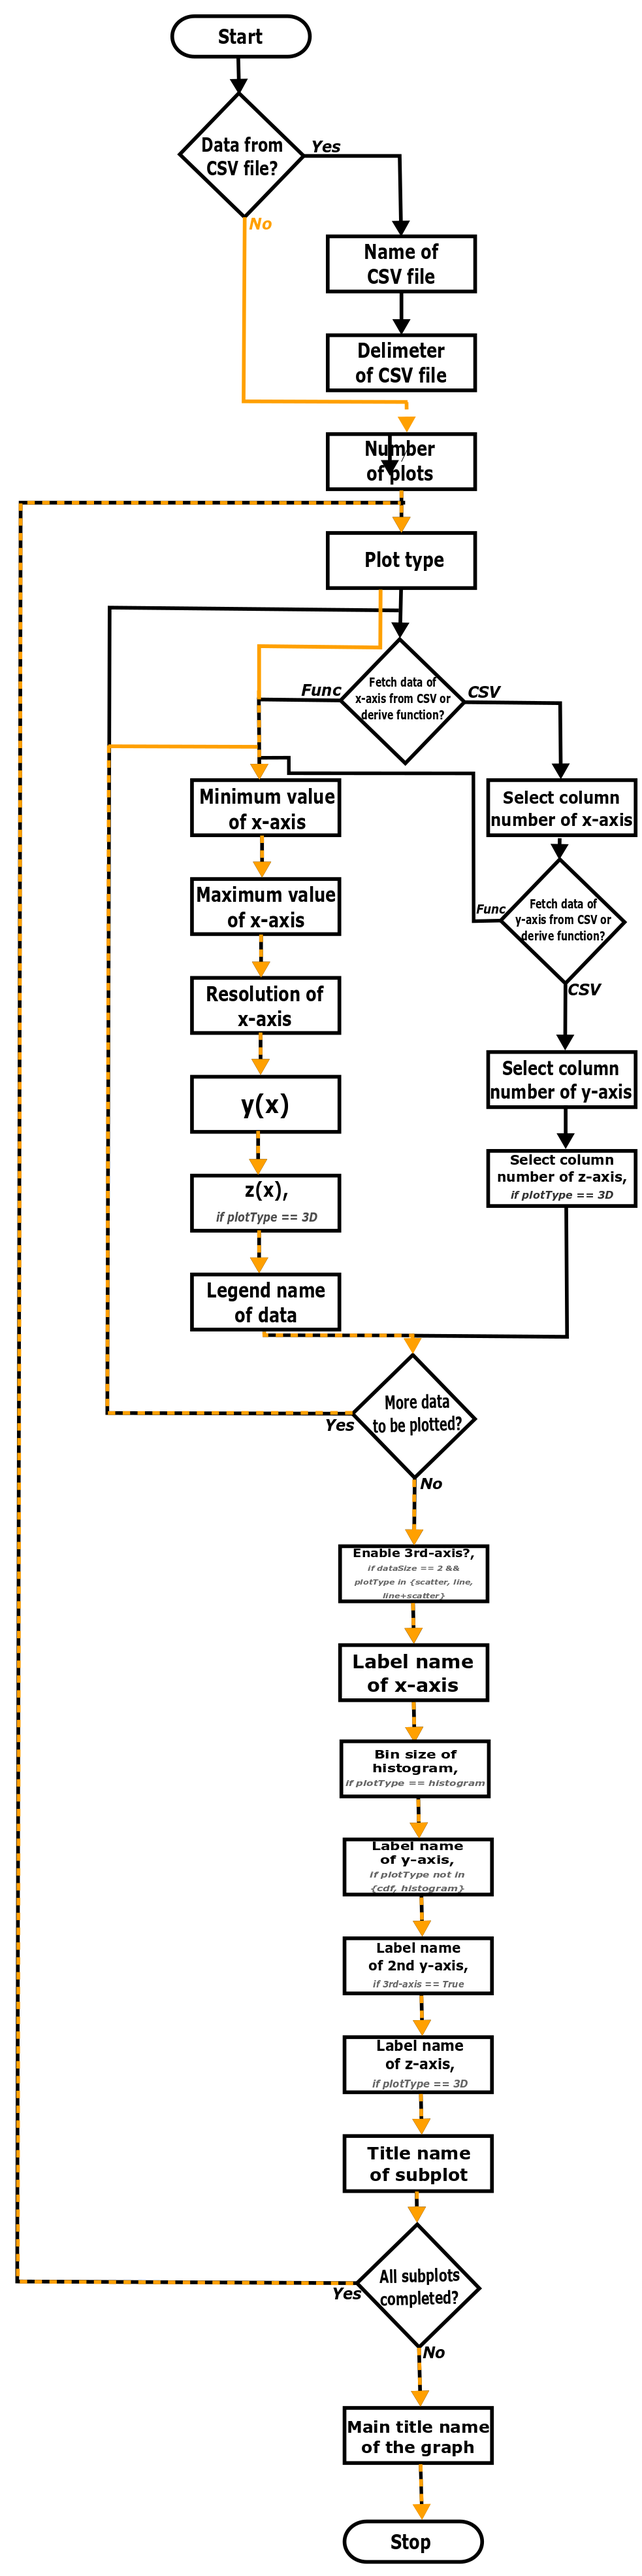
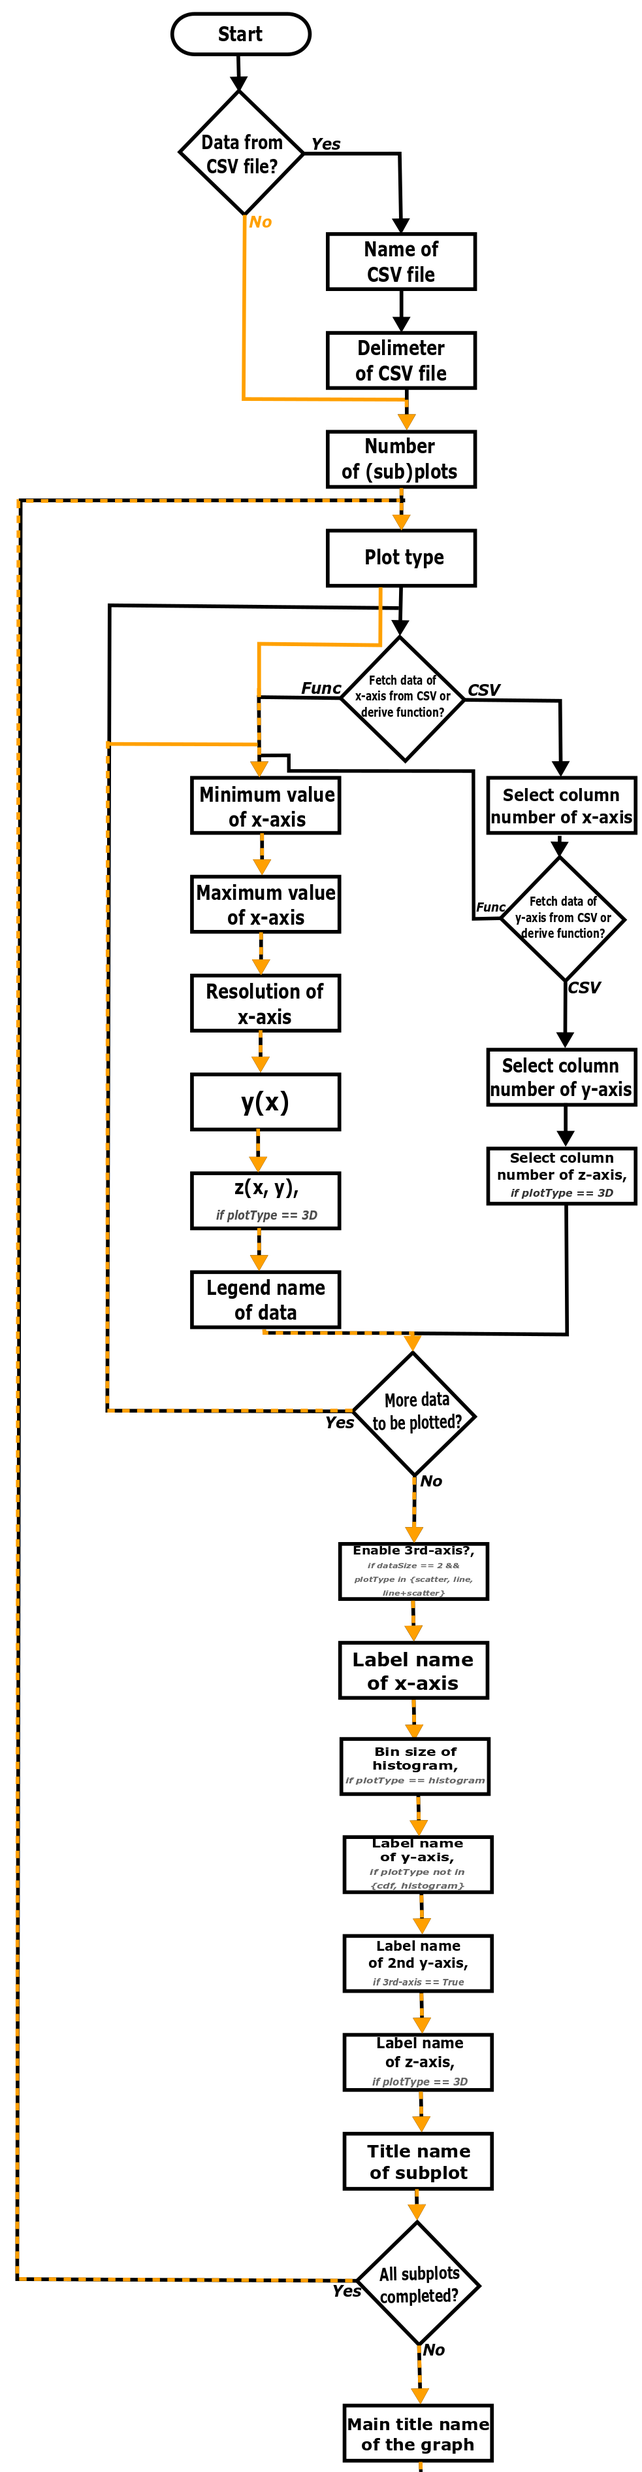
README.md and FlowDiagram.png updated.

diff --git a/pythonPlotter.py b/pythonPlotter.py
@@ -1,4 +1,4 @@
-#!/usr/bin/python3.6
+#!/usr/bin/env python3
 
 import matplotlib as mpl
 import matplotlib.pyplot as plt
@@ -8,7 +8,6 @@ import numpy as np
 import math
 import os
 import sys
-# import inspect
 from colorama import Fore, Back, Style, init # colored output on the terminal
 from datetime import datetime
 import tkinter
@@ -964,7 +963,6 @@ Please make sure that x and y data sizes match! """
         # Fetch title name from user
         self.askMainTitle()
         self.plotPyt.showPlot(self.title, self.numOfPlots)
-            
        
     # =============================== Initiate and Run the PlotPython Class
     def initiatePlotter(self):

diff --git a/README.md b/README.md
@@ -2,27 +2,27 @@
 
 ![PythonPlotter](supportedPlots.png)
 
-This program is an automized tool to provide a plotting platform with many features based on python matplotlib library. Whether you have sets of data or math functions to be plotted, this program can be utilized to plot your graphs without needing to write a python program. 
-The program takes csv file as input and provides the plots by asking questions to the user. It is a user-interactive program to provide the highest level of flexibility to the user. Also, *config.py* allows user to flexibly set up certain parameters for the program. 
-Each plot is saved in the *logs/* directory. 
+The PythonPlotter is an automized tool to provide a plotting platform with many features based on python matplotlib library. Whether you have sets of data or math functions to be plotted, this program can be utilized to plot your graphs without needing to write a python program. 
+PythonPlotter takes csv file as input and provides the plots by asking questions to the user. It is a user-interactive program to provide the highest level of flexibility to the user. Also, *config.py* allows user to flexibly set up certain parameters for the program. 
+Resulting plot is saved in the *logs/* directory. 
 
 
 ## Features
-	- No need for programming to generate plots. Simply give your input data/function to the program and plot your data. 
-	- Supported plot types: bar, box, cdf, histogram, line, scatter, line+scatter, 3D line
-		- Flexibility of selecting any plot type for each subplot.
-	- Subplots are supported
-	- Provide your input data either via csv file (delimeter type can be specified in the program) or generate x-axis based on *numpy.arange()* and create y-axis functions with *numpy.** or *math.** libraries.
-	- Flexibly enter your x- and y-axis labels, legend names, (sub)plot titles, etc.
-		- axis labels and legend names can also be tken from csv file if provided in the first row of each data set (check out sample data file given in *inputCsvFiles/* directory.
-	- 3rd-axis support for two data sets in line, scatter and line+scatter plots
-	- Generated plots are automatically saved in *logs/.* directory in  *YearMonthDay_HourMinuteSecond* format. 
+- No need for programming to generate plots. Simply give your input data or math function to PythonPlotter and plot your data. 
+- Subplots are supported
+- Supported plot types: bar, box, cdf, histogram, line, scatter, line+scatter, 3D line
+	- Flexibility of selecting any plot type for each subplot.
+- Provide your input data either via csv file (delimeter type can be specified in the program) or generate x-axis based on *numpy.arange()* and create y-axis functions with *numpy.* or *math.* libraries.
+- Flexibly enter your x- and y-axis labels, legend names, (sub)plot titles, etc.
+	- axis labels and legend names can also be taken from csv file if provided in the first row of each data set (check out sample data file given in *inputCsvFiles/* directory.
+- 3rd-axis support when two data sets are given in line, scatter and line+scatter plots
+- Generated plots are automatically saved in *logs/.* directory in  *YearMonthDay_HourMinuteSecond* format. 
 
 ## Dependencies
 
 Installation commamnds are given for Ubuntu (tested on Ubuntu 18.04).
 
-** Program is written in python3 (version 3.6)**
+**Program is written in Python3 (version 3.6)**
 
 > sudo apt install python3-dev python3-pip
 
@@ -30,7 +30,7 @@ Installation commamnds are given for Ubuntu (tested on Ubuntu 18.04).
 
 > sudo apt install python3-matplotlib python3-tk
 
-**Csv, numpy,colorama, tinker, **
+**Csv, numpy,colorama, tinker**
 
 > pip3 install numpy colorama
 
@@ -40,15 +40,40 @@ Simply run the program.
 
 > ./pythonPlotter.py
 
-The program will ask you questions to generate your plots. Answer to the questions accordingly and check out the flow diagram and its explanation below to better understand how the program works. 
+The PythonPlotter will ask you questions to generate your plots. Answer to the questions accordingly. Check out the flow diagram and its explanation below to better understand how the program works. You may press *[Enter]* to answer to the questions with default values and you may exit the program at any phase by typing *[exit]||[EXIT]||[quit]||[QUIT]*.
 
 ![Flow Diagram of PythonPlotter](flowDiagram.png)
 
 ## Description of Flow Diagram
-	
+-**Data from CSV file?** and **Name of the CSV file=**: Enter the csv file name of your input data (locate it in *logs/* directory or just skip this step if you will not use data file for your plots. You may also just copy/paste your data into *plotFromCsv.csv*
+-**Delimeter of CSV File**: Enter the delimeter type of the CSV file. Default is *,*: 
+-**Number of (sub)plots**: Enter the number of (sub)plots you want to plot
+-**Plot Type**: Select your desired plot type (just enter the corresponding plot type number. )
+-**Fetch data of x-axis from CSV or derive function?**: Although you added a CSV file as input, you may still derive data by function. Thus, you can select whether you want to fetch a data from your CSV file or just derive a function. 
+-**Minimum value of x-axis**: Minimum value for the range of x-axis.
+-**Maximum value of x-axis**: Maximum value for the range of x-axis.
+-**Resolution of x-axis**: Resolution value for the range of x-axis.
+-**y(x)**: Enter the function for y-axis (based on *x*). You may utilize *numpy.* as well as *math.* libraries or just simple python math expressions. 
+-**z(x, y)**: Enter the function for z-axis (based on *x* and *y*). You may utilize *numpy.* as well as *math.* libraries or just simple python math expressions. This option pops up only if selected plot type is 3D. 
+-**Select column number of x-axis**: Enter the column number of your csv file which should be used for x-axis in the plot. 
+-**Select column number of y-axis**: Enter the column number of your csv file which should be used for y-axis in the plot. 
+-**Select column number of z-axis**: Enter the column number of your csv file which should be used for z-axis in the plot. This option pops up only if selected plot type is 3D. 
+-**Legend name of data**: Enter the legend name for your input data.
+-**More data to be plotted?**: After entering legend name, the program will ask you whether you want to plot another set of data in the same graph. 
+-**Enable 3rd-axis?**: If you used two different data sets in scatter, line or line+scatter okit types, then the program will ask you whether you want to enable the 2-nd y-axis on the plot. 
+-**Label name of x-axis**: Type the label name for the x-axis of your plot. 
+-**Bin size of histogram**: If selected plot type is histogram, PythonPlotter will ask you to enter the bin size of your plot, which will determine the resolution of the plot. 
+-**Label name of y-axis**: Type the label name for the y-axis of your plot. 
+-**Label name of z-axis**: Type the label name for the z-axis of your plot. This option pops up only if selected plot type is 3D.  
+-**All subplots completed?**: PythonPlotter will keep looping and keep asking the questions above until the number of subplots which is defined by user is reached. 
+-**Main title name of the graph?**: Enter the main title name of your plots. 
+
+Furthermore, please check out *config.py* where you will find further options to modify your plotting settings. 
 Please report the bugs so that I can improve the program. Also, expect to run into bugs as this is currently the first version of the program and I need feedbacks to improve the program. Thanks!
+
 ## Features to be Added in the Future:
 1. Surface and wired 3D plots
 2. Heat map plots
 3. Multi-color box plots
-4. Slider tabs for function-based plots 
+4. Improve the x-axis offset of the input data in histogram plots
+5. Slider tabs for function-based plots 
